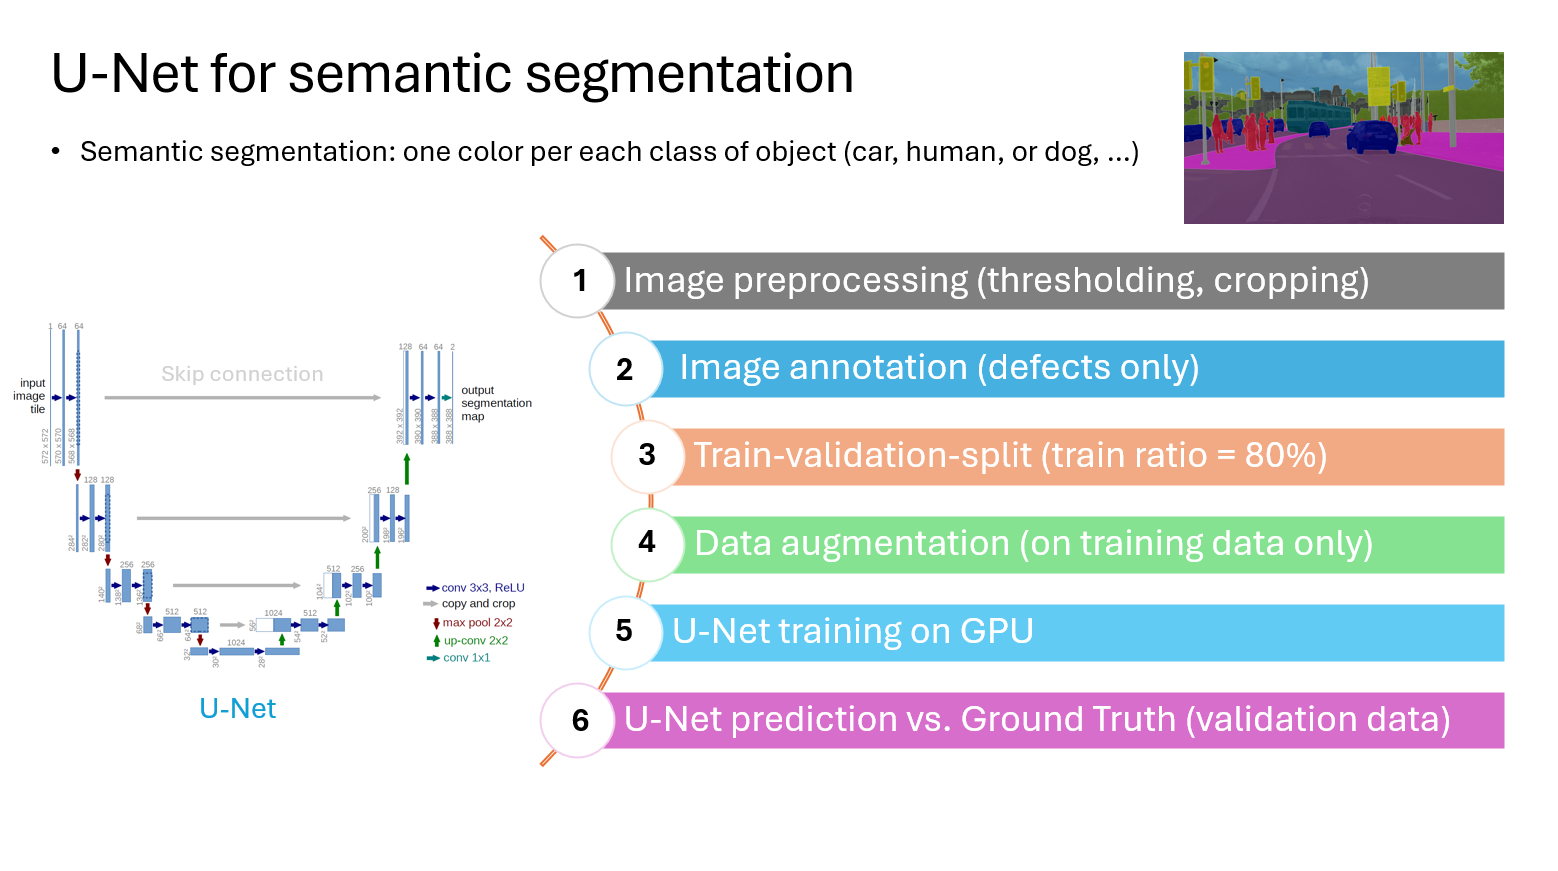
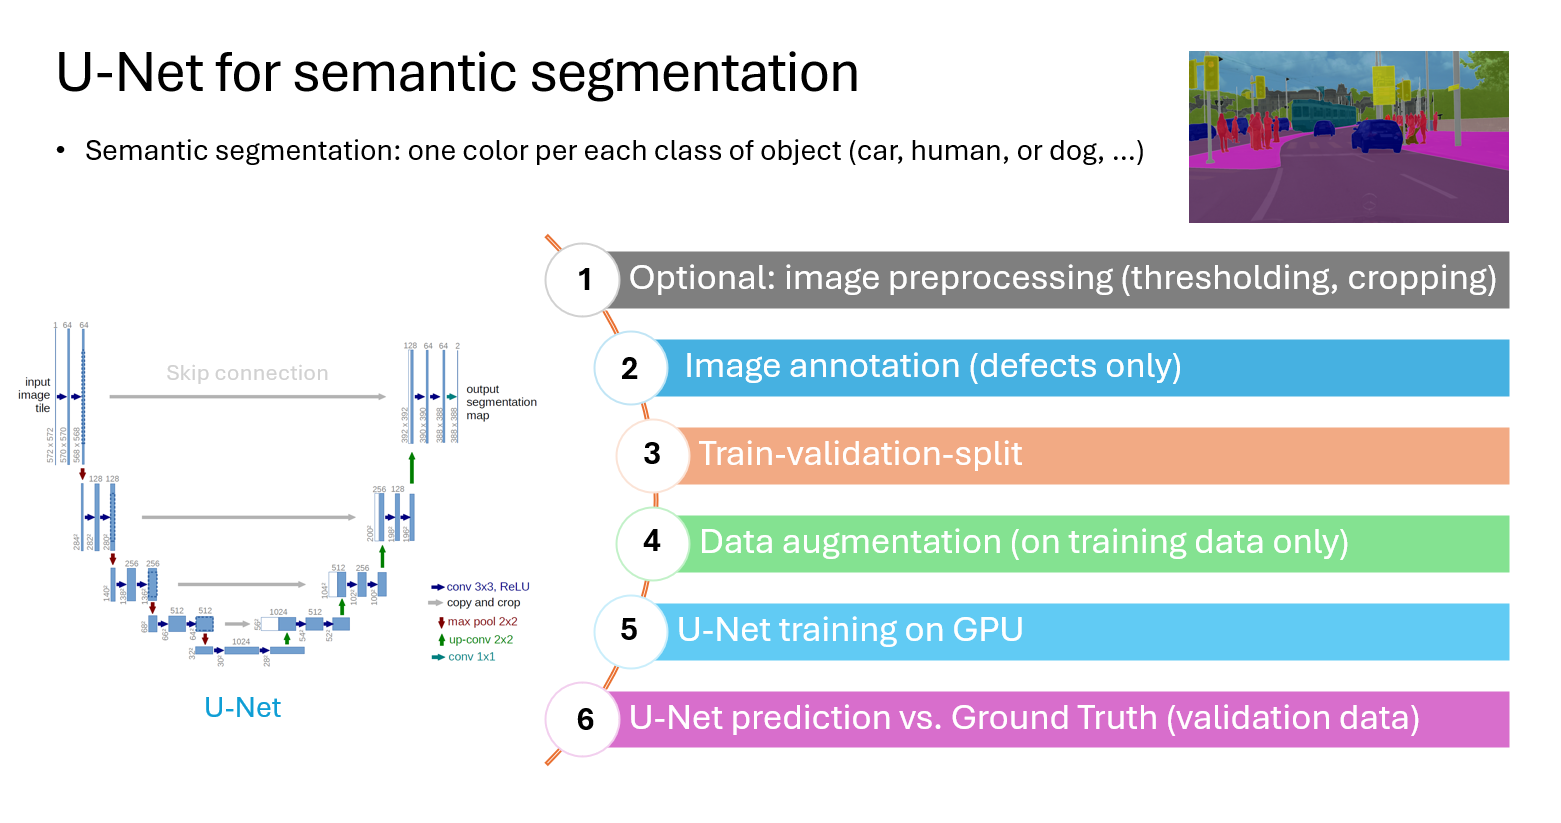
Update Images

diff --git a/README.md b/README.md
@@ -18,7 +18,7 @@ This is a tutorial prepared for the University of Washington **MSE 544 — Compu
 - [4. Dataset Folder Layout](#4-dataset-folder-layout)
 - [5. Workflow Overview](#5-workflow-overview)
 
-* [Install LabelMe (for hand labeling)](#install-labelme-for-hand-labeling)
+[Install LabelMe (for hand labeling)](#install-labelme-for-hand-labeling)
 
 - [Step A. Install uv](#step-a-install-uv)
 - [Step B. Install Python via uv](#step-b-install-python-via-uv)
